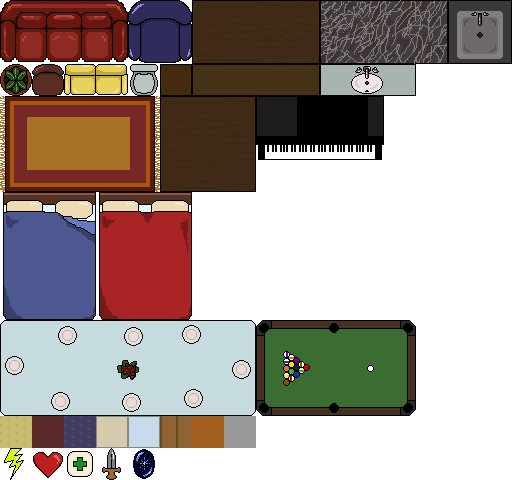
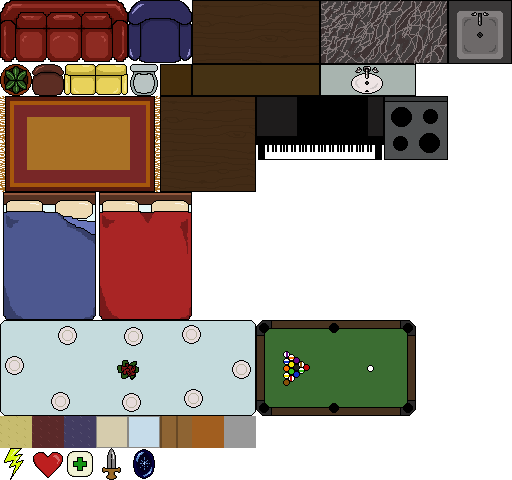
More rooms, better rooms

Changed region(s): [[0.75, 0.1875, 0.875, 0.3438]]

diff --git a/config/gameconfig.js b/config/gameconfig.js
@@ -64,77 +64,6 @@ module.exports.gameconfig = {
         }
       ]
     },
-    'bedroom': {
-      floor: '#A3CBCC',
-      gateways: {
-        north: true,
-        east: true,
-        south: true,
-        west: true
-      },
-      objects: [
-        {
-          id: 'blueBed',
-          solid: true,
-          rotation: 0,
-          gridX: 3,
-          gridY: 1
-        },
-        {
-          id: 'woodTable',
-          solid: true,
-          rotation: 0,
-          gridX: 11,
-          gridY: 13
-        },
-        {
-          id: 'chair',
-          solid: true,
-          rotation: 0,
-          gridX: 12,
-          gridY: 12
-        }
-      ]
-    },
-    'bedroom2': {
-      floor: '#E3CD86',
-      gateways: {
-        north: true,
-        east: true,
-        south: true,
-        west: true
-      },
-      objects: [
-        {
-          id: 'redBed',
-          solid: true,
-          rotation: 0,
-          gridX: 3,
-          gridY: 1
-        },
-        {
-          id: 'plant',
-          solid: true,
-          rotation: 0,
-          gridX: 14,
-          gridY: 1
-        },
-        {
-          id: 'woodTable',
-          solid: true,
-          rotation: 0,
-          gridX: 11,
-          gridY: 13
-        },
-        {
-          id: 'chair',
-          solid: true,
-          rotation: 0,
-          gridX: 12,
-          gridY: 12
-        }
-      ]
-    },
     'gameRoom': {
       floor: '#A3CBCC',
       gateways: {
@@ -209,6 +138,20 @@ module.exports.gameconfig = {
           gridY: 4
         },
         {
+          id: 'chair',
+          solid: true,
+          rotation: 0,
+          gridX: 7,
+          gridY: 3
+        },
+        {
+          id: 'chair',
+          solid: true,
+          rotation: 0,
+          gridX: 9,
+          gridY: 3
+        },
+        {
           id: 'graniteCounter',
           solid: true,
           rotation: 0,
@@ -228,6 +171,13 @@ module.exports.gameconfig = {
           rotation: 0,
           gridX: 7,
           gridY: 9
+        },
+        {
+          id: 'stove',
+          solid: true,
+          rotation: 270,
+          gridX: 1,
+          gridY: 11
         },
       ]
     },
@@ -304,7 +254,246 @@ module.exports.gameconfig = {
           gridY: 9
         },
       ]
-    }
+    },
+    'bedroom': {
+      floor: '#A3CBCC',
+      gateways: {
+        north: true,
+        east: true,
+        south: true,
+        west: true
+      },
+      objects: [
+        {
+          id: 'blueBed',
+          solid: true,
+          rotation: 0,
+          gridX: 3,
+          gridY: 1
+        },
+        {
+          id: 'woodTable',
+          solid: true,
+          rotation: 0,
+          gridX: 11,
+          gridY: 1
+        },
+        {
+          id: 'chair',
+          solid: true,
+          rotation: 0,
+          gridX: 12,
+          gridY: 3
+        },
+        {
+          id: 'wall',
+          solid: true,
+          rotation: 0,
+          gridX: 7,
+          gridY: 14
+        },
+        {
+          id: 'wall',
+          solid: true,
+          rotation: 0,
+          gridX: 7,
+          gridY: 13
+        },
+        {
+          id: 'wall',
+          solid: true,
+          rotation: 0,
+          gridX: 7,
+          gridY: 12
+        },
+        {
+          id: 'wall',
+          solid: true,
+          rotation: 0,
+          gridX: 7,
+          gridY: 11
+        },
+        {
+          id: 'wall',
+          solid: true,
+          rotation: 0,
+          gridX: 7,
+          gridY: 10
+        },
+        {
+          id: 'wall',
+          solid: true,
+          rotation: 0,
+          gridX: 7,
+          gridY: 9
+        },
+        {
+          id: 'wall',
+          solid: true,
+          rotation: 0,
+          gridX: 1,
+          gridY: 9
+        },
+        {
+          id: 'wall',
+          solid: true,
+          rotation: 0,
+          gridX: 2,
+          gridY: 9
+        },
+        {
+          id: 'wall',
+          solid: true,
+          rotation: 0,
+          gridX: 3,
+          gridY: 9
+        },
+        {
+          id: 'wall',
+          solid: true,
+          rotation: 0,
+          gridX: 4,
+          gridY: 9
+        },
+        {
+          id: 'toilet',
+          solid: true,
+          rotation: 0,
+          gridX: 2,
+          gridY: 10
+        },
+        {
+          id: 'sink',
+          solid: true,
+          rotation: 180,
+          gridX: 2,
+          gridY: 14
+        },
+      ]
+    },
+    'bedroom2': {
+      floor: '#E3CD86',
+      gateways: {
+        north: true,
+        east: true,
+        south: true,
+        west: true
+      },
+      objects: [
+        {
+          id: 'redBed',
+          solid: true,
+          rotation: 0,
+          gridX: 3,
+          gridY: 1
+        },
+        {
+          id: 'plant',
+          solid: true,
+          rotation: 0,
+          gridX: 14,
+          gridY: 1
+        },
+        {
+          id: 'woodTable',
+          solid: true,
+          rotation: 0,
+          gridX: 11,
+          gridY: 13
+        },
+        {
+          id: 'chair',
+          solid: true,
+          rotation: 0,
+          gridX: 12,
+          gridY: 12
+        },
+        {
+          id: 'wall',
+          solid: true,
+          rotation: 0,
+          gridX: 7,
+          gridY: 14
+        },
+        {
+          id: 'wall',
+          solid: true,
+          rotation: 0,
+          gridX: 7,
+          gridY: 13
+        },
+        {
+          id: 'wall',
+          solid: true,
+          rotation: 0,
+          gridX: 7,
+          gridY: 12
+        },
+        {
+          id: 'wall',
+          solid: true,
+          rotation: 0,
+          gridX: 7,
+          gridY: 11
+        },
+        {
+          id: 'wall',
+          solid: true,
+          rotation: 0,
+          gridX: 7,
+          gridY: 10
+        },
+        {
+          id: 'wall',
+          solid: true,
+          rotation: 0,
+          gridX: 7,
+          gridY: 9
+        },
+        {
+          id: 'wall',
+          solid: true,
+          rotation: 0,
+          gridX: 1,
+          gridY: 9
+        },
+        {
+          id: 'wall',
+          solid: true,
+          rotation: 0,
+          gridX: 2,
+          gridY: 9
+        },
+        {
+          id: 'wall',
+          solid: true,
+          rotation: 0,
+          gridX: 3,
+          gridY: 9
+        },
+        {
+          id: 'wall',
+          solid: true,
+          rotation: 0,
+          gridX: 4,
+          gridY: 9
+        },
+        {
+          id: 'toilet',
+          solid: true,
+          rotation: 0,
+          gridX: 2,
+          gridY: 10
+        },
+        {
+          id: 'sink',
+          solid: true,
+          rotation: 180,
+          gridX: 2,
+          gridY: 14
+        },
+      ]
+    },
   },
 
   events: {

diff --git a/assets/js/view/SpriteMap.js b/assets/js/view/SpriteMap.js
@@ -16,6 +16,7 @@ define([
     'rug': {gridX: 0, gridY: 3, gridW: 5, gridH: 3},
     'squareTable': {gridX: 5, gridY: 3, gridW: 3, gridH: 3},
     'piano': {gridX: 8, gridY: 3, gridW: 4, gridH: 2},
+    'stove': {gridX: 12, gridY: 3, gridW: 2, gridH: 2},
     'blueBed': {gridX: 0, gridY: 6, gridW: 3, gridH: 4},
     'redBed': {gridX: 3, gridY: 6, gridW: 3, gridH: 4},
     'diningTable': {gridX: 0, gridY: 10, gridW: 8, gridH: 3},
@@ -26,5 +27,6 @@ define([
     'creamTile': {gridX: 3, gridY: 13, gridW: 1, gridH: 1},
     'blueTile': {gridX: 4, gridY: 13, gridW: 1, gridH: 1},
     'woodFloor': {gridX: 5, gridY: 13, gridW: 1, gridH: 1},
+    'wall': {gridX: 7, gridY: 13, gridW: 1, gridH: 1},
   }
 });
